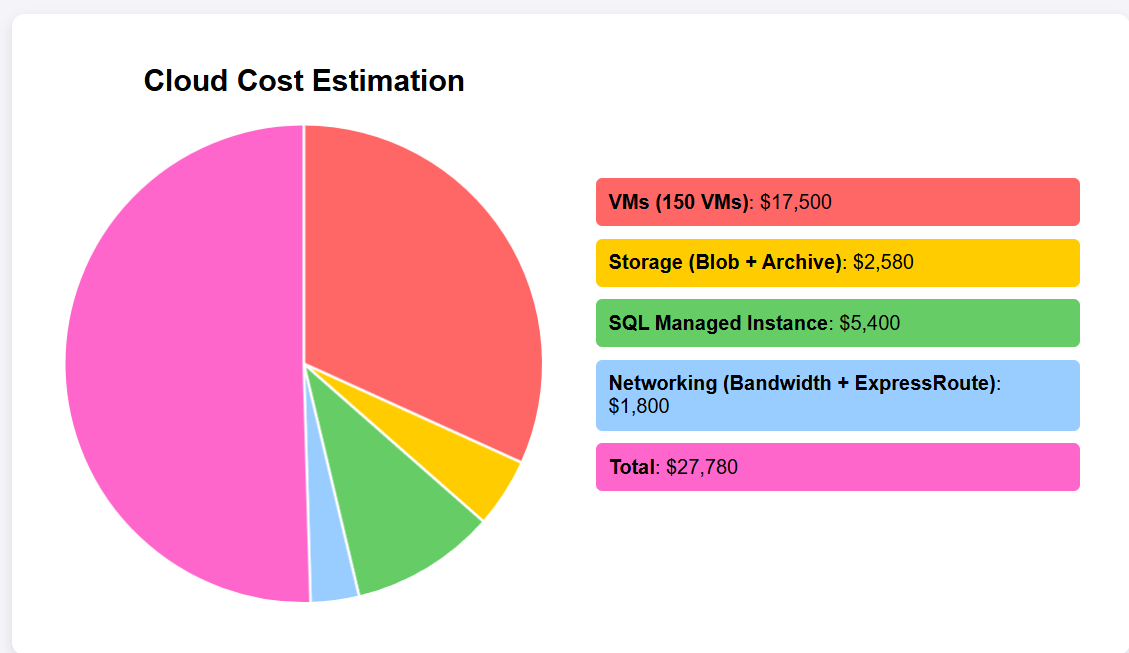
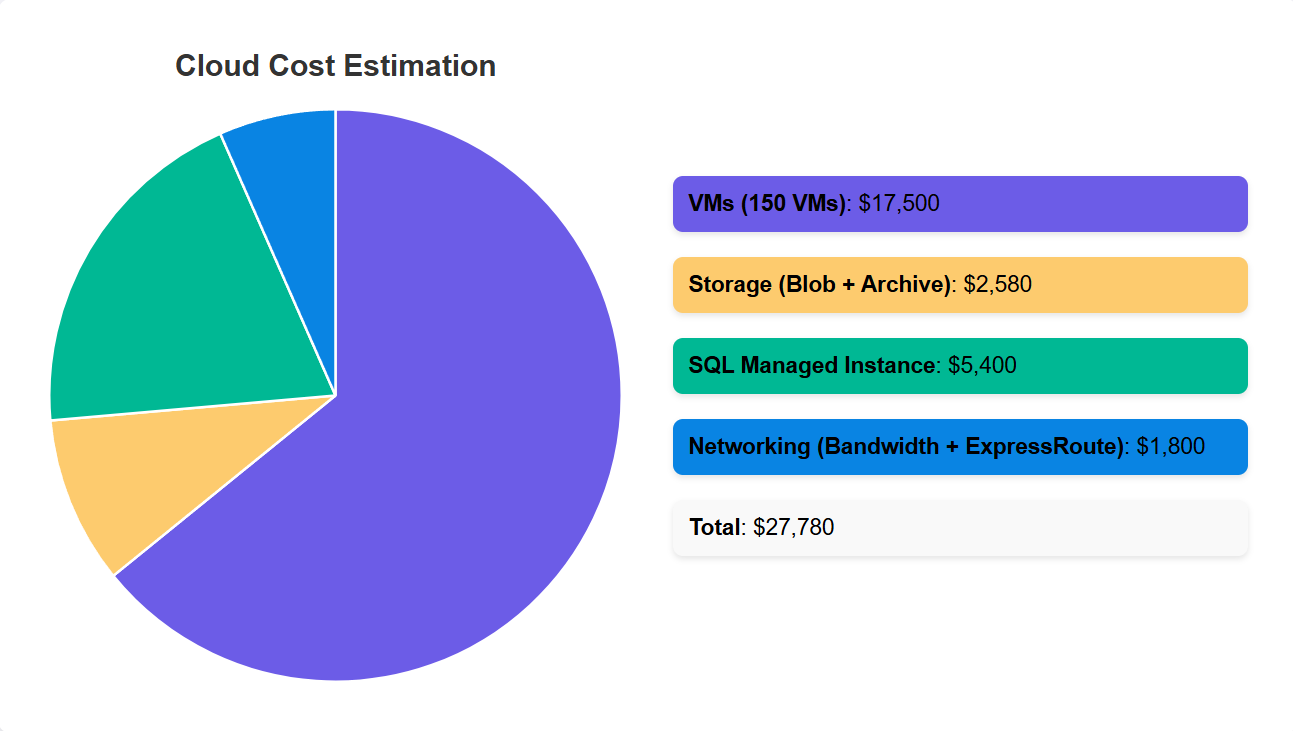
test

diff --git a/index.html b/index.html
@@ -3,7 +3,7 @@
 <head>
     <meta charset="UTF-8">
     <meta name="viewport" content="width=device-width, initial-scale=1.0">
-    <title>Cloud Cost Estimation Pie Chart</title>
+    <title>Cloud Cost Estimation</title>
     <style>
         body {
             font-family: Arial, sans-serif;
@@ -22,6 +22,8 @@
             background-color: white;
             box-shadow: 0 4px 10px rgba(0, 0, 0, 0.1);
             border-radius: 10px;
+            max-width: 1000px;
+            width: 100%;
         }
 
         .left {
@@ -42,10 +44,12 @@
         }
 
         .key-value {
-            font-size: 16px;
-            margin: 5px 0;
-            padding: 10px;
-            border-radius: 5px;
+            font-size: 18px;
+            margin: 10px 0;
+            padding: 12px;
+            border-radius: 8px;
+            background-color: #f9f9f9;
+            box-shadow: 0 2px 5px rgba(0, 0, 0, 0.1);
         }
 
         .key-value span {
@@ -57,6 +61,14 @@
             font-weight: bold;
             margin-bottom: 20px;
             text-align: center;
+            color: #333;
+        }
+
+        .footer {
+            text-align: center;
+            margin-top: 20px;
+            font-size: 14px;
+            color: #888;
         }
     </style>
 </head>
@@ -79,10 +91,14 @@
     </div>
 </div>
 
+<div class="footer">
+    <p>Cloud cost analysis for optimal resource planning</p>
+</div>
+
 <script src="https://cdn.jsdelivr.net/npm/chart.js"></script>
 <script src="https://cdn.jsdelivr.net/npm/chartjs-plugin-datalabels"></script>
 <script>
-    var colors = ['#ff6666', '#ffcc00', '#66cc66', '#99ccff', '#ff66cc'];
+    var colors = ['#6c5ce7', '#fdcb6e', '#00b894', '#0984e3'];
 
     var ctx = document.getElementById('myPieChart').getContext('2d');
     var myPieChart = new Chart(ctx, {
@@ -92,11 +108,10 @@
                 'VMs (150 VMs)',
                 'Storage (Blob + Archive)',
                 'SQL Managed Instance',
-                'Networking (Bandwidth + ExpressRoute)',
-                'Total'
+                'Networking (Bandwidth + ExpressRoute)'
             ],
             datasets: [{
-                data: [17500, 2580, 5400, 1800, 27780], // Cost data
+                data: [17500, 2580, 5400, 1800], // Updated data without "Total"
                 backgroundColor: colors, // Assign colors to the slices
                 borderColor: '#fff',
                 borderWidth: 2
@@ -127,7 +142,7 @@
     document.getElementById('key2').style.backgroundColor = colors[1];
     document.getElementById('key3').style.backgroundColor = colors[2];
     document.getElementById('key4').style.backgroundColor = colors[3];
-    document.getElementById('key5').style.backgroundColor = colors[4];
+    document.getElementById('key5').style.backgroundColor = '#f9f9f9'; // Keep the background neutral for Total
 </script>
 
 </body>

diff --git a/Presentation.md b/Presentation.md
@@ -16,8 +16,6 @@
 # Part 4: Cost Estimation and optimization
 ### **Cost Estimation for GlobalTech Solutions on Azure**  
 
-I apologize for the oversight. Here's the revised version of the **Cost Estimation** section with both **Monthly** and **Annual** costs included, along with the **Cost Optimization** strategies, in a more professional format.
-
 ---
 
 ### **Cost Estimation and Optimization for Cloud Migration**
